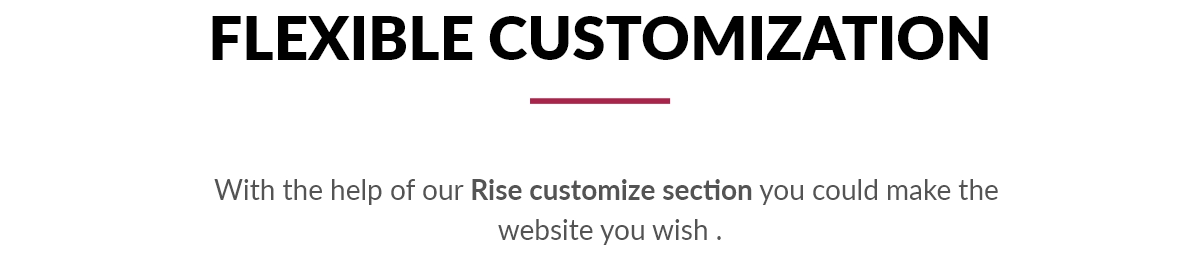
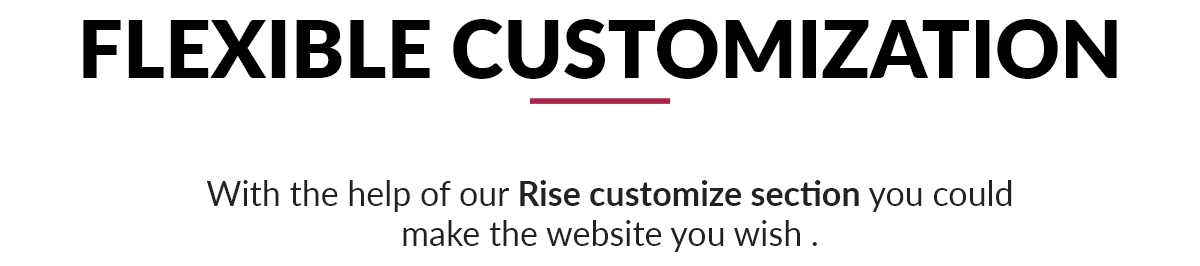
Readding assets

Changed region(s): [[0.0617, 0.0602, 0.9558, 0.3008], [0.1542, 0.6617, 0.8633, 0.782], [0.3083, 0.8421, 0.6783, 0.9323]]

diff --git a/description.html b/description.html
@@ -1,4 +1,4 @@
-<div class="center" style="width: 618px; margin: auto;">
+<div class="center" style="width: 95%; margin: auto;">
     <p>
         <strong>Rise theme</strong> designed to easily present any food-related business and take full advantage of the flexibility of the custom blocks we offer. With Rise, you get the perfect blend of performance, modern design and powerful, yet simple to use options, You can give your site a personal touch by changing the colors, Fonts, Decorations, Effects, and much more in the Customizer. The colors of all elements on your site are automatically calculated based on the colors you pick, ensuring a high, accessible color contrast for your visitors. It comes with multiple layouts, pre-built demos and so much more. It’s also translatable, RTL support and built with best SEO practices.
     </p>
